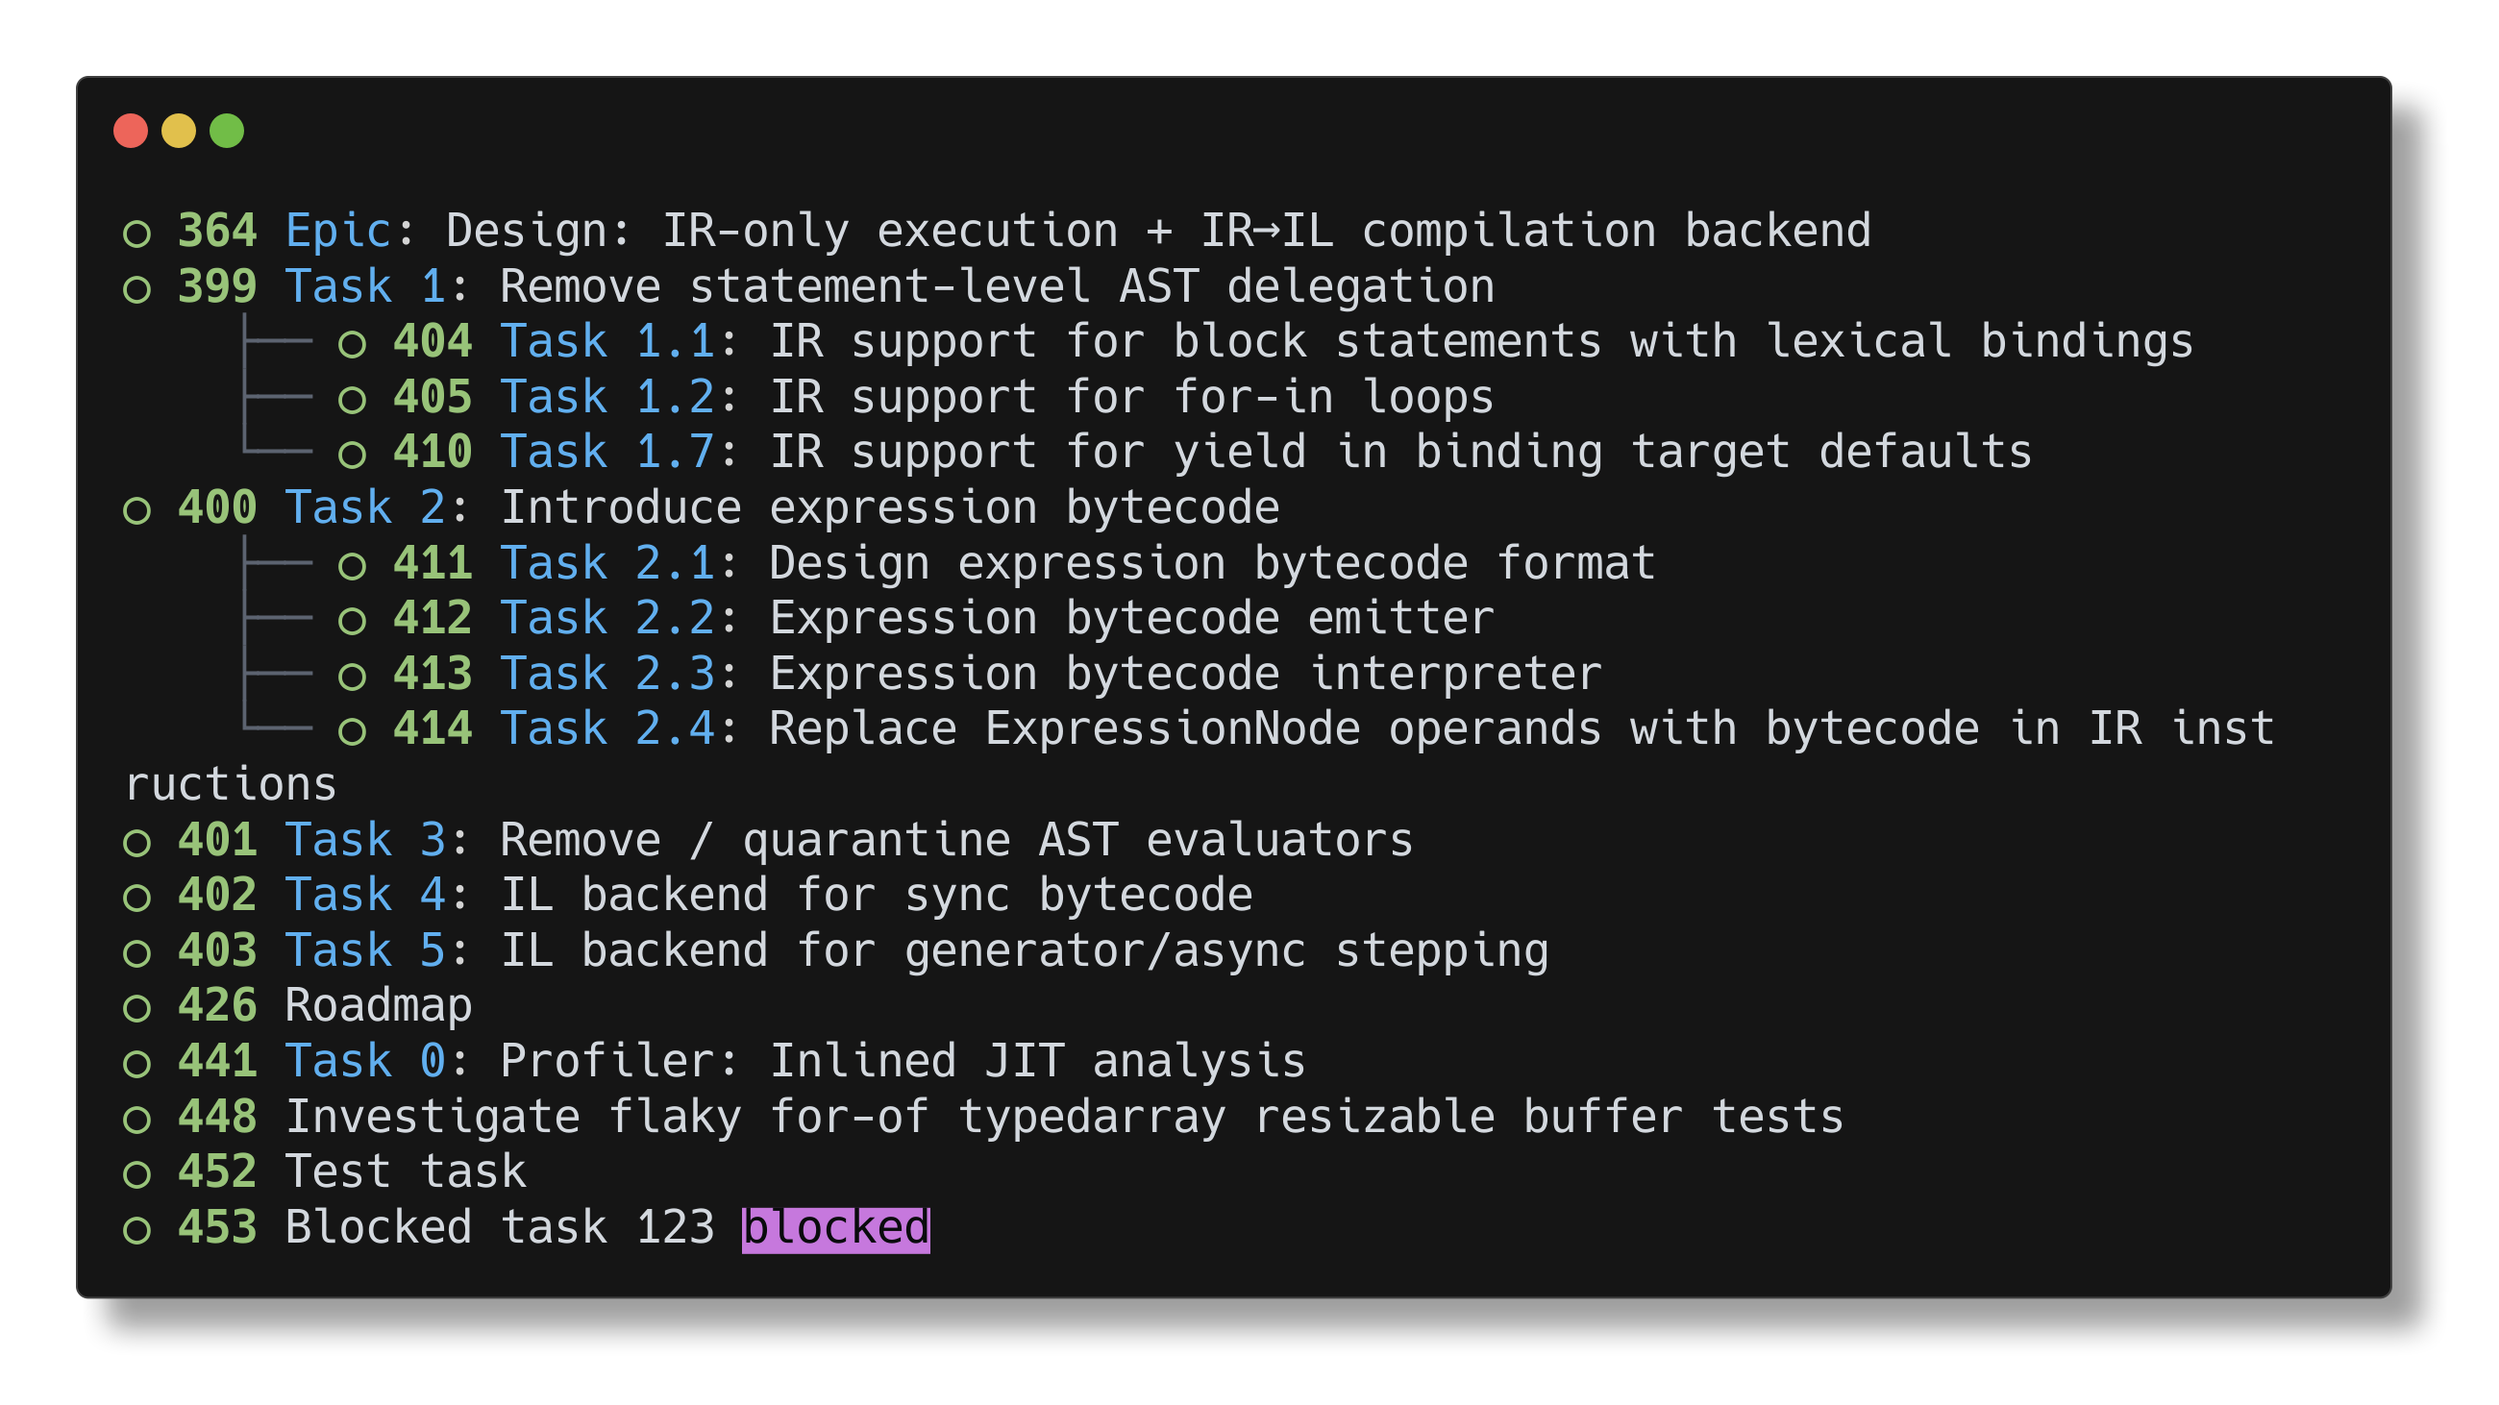
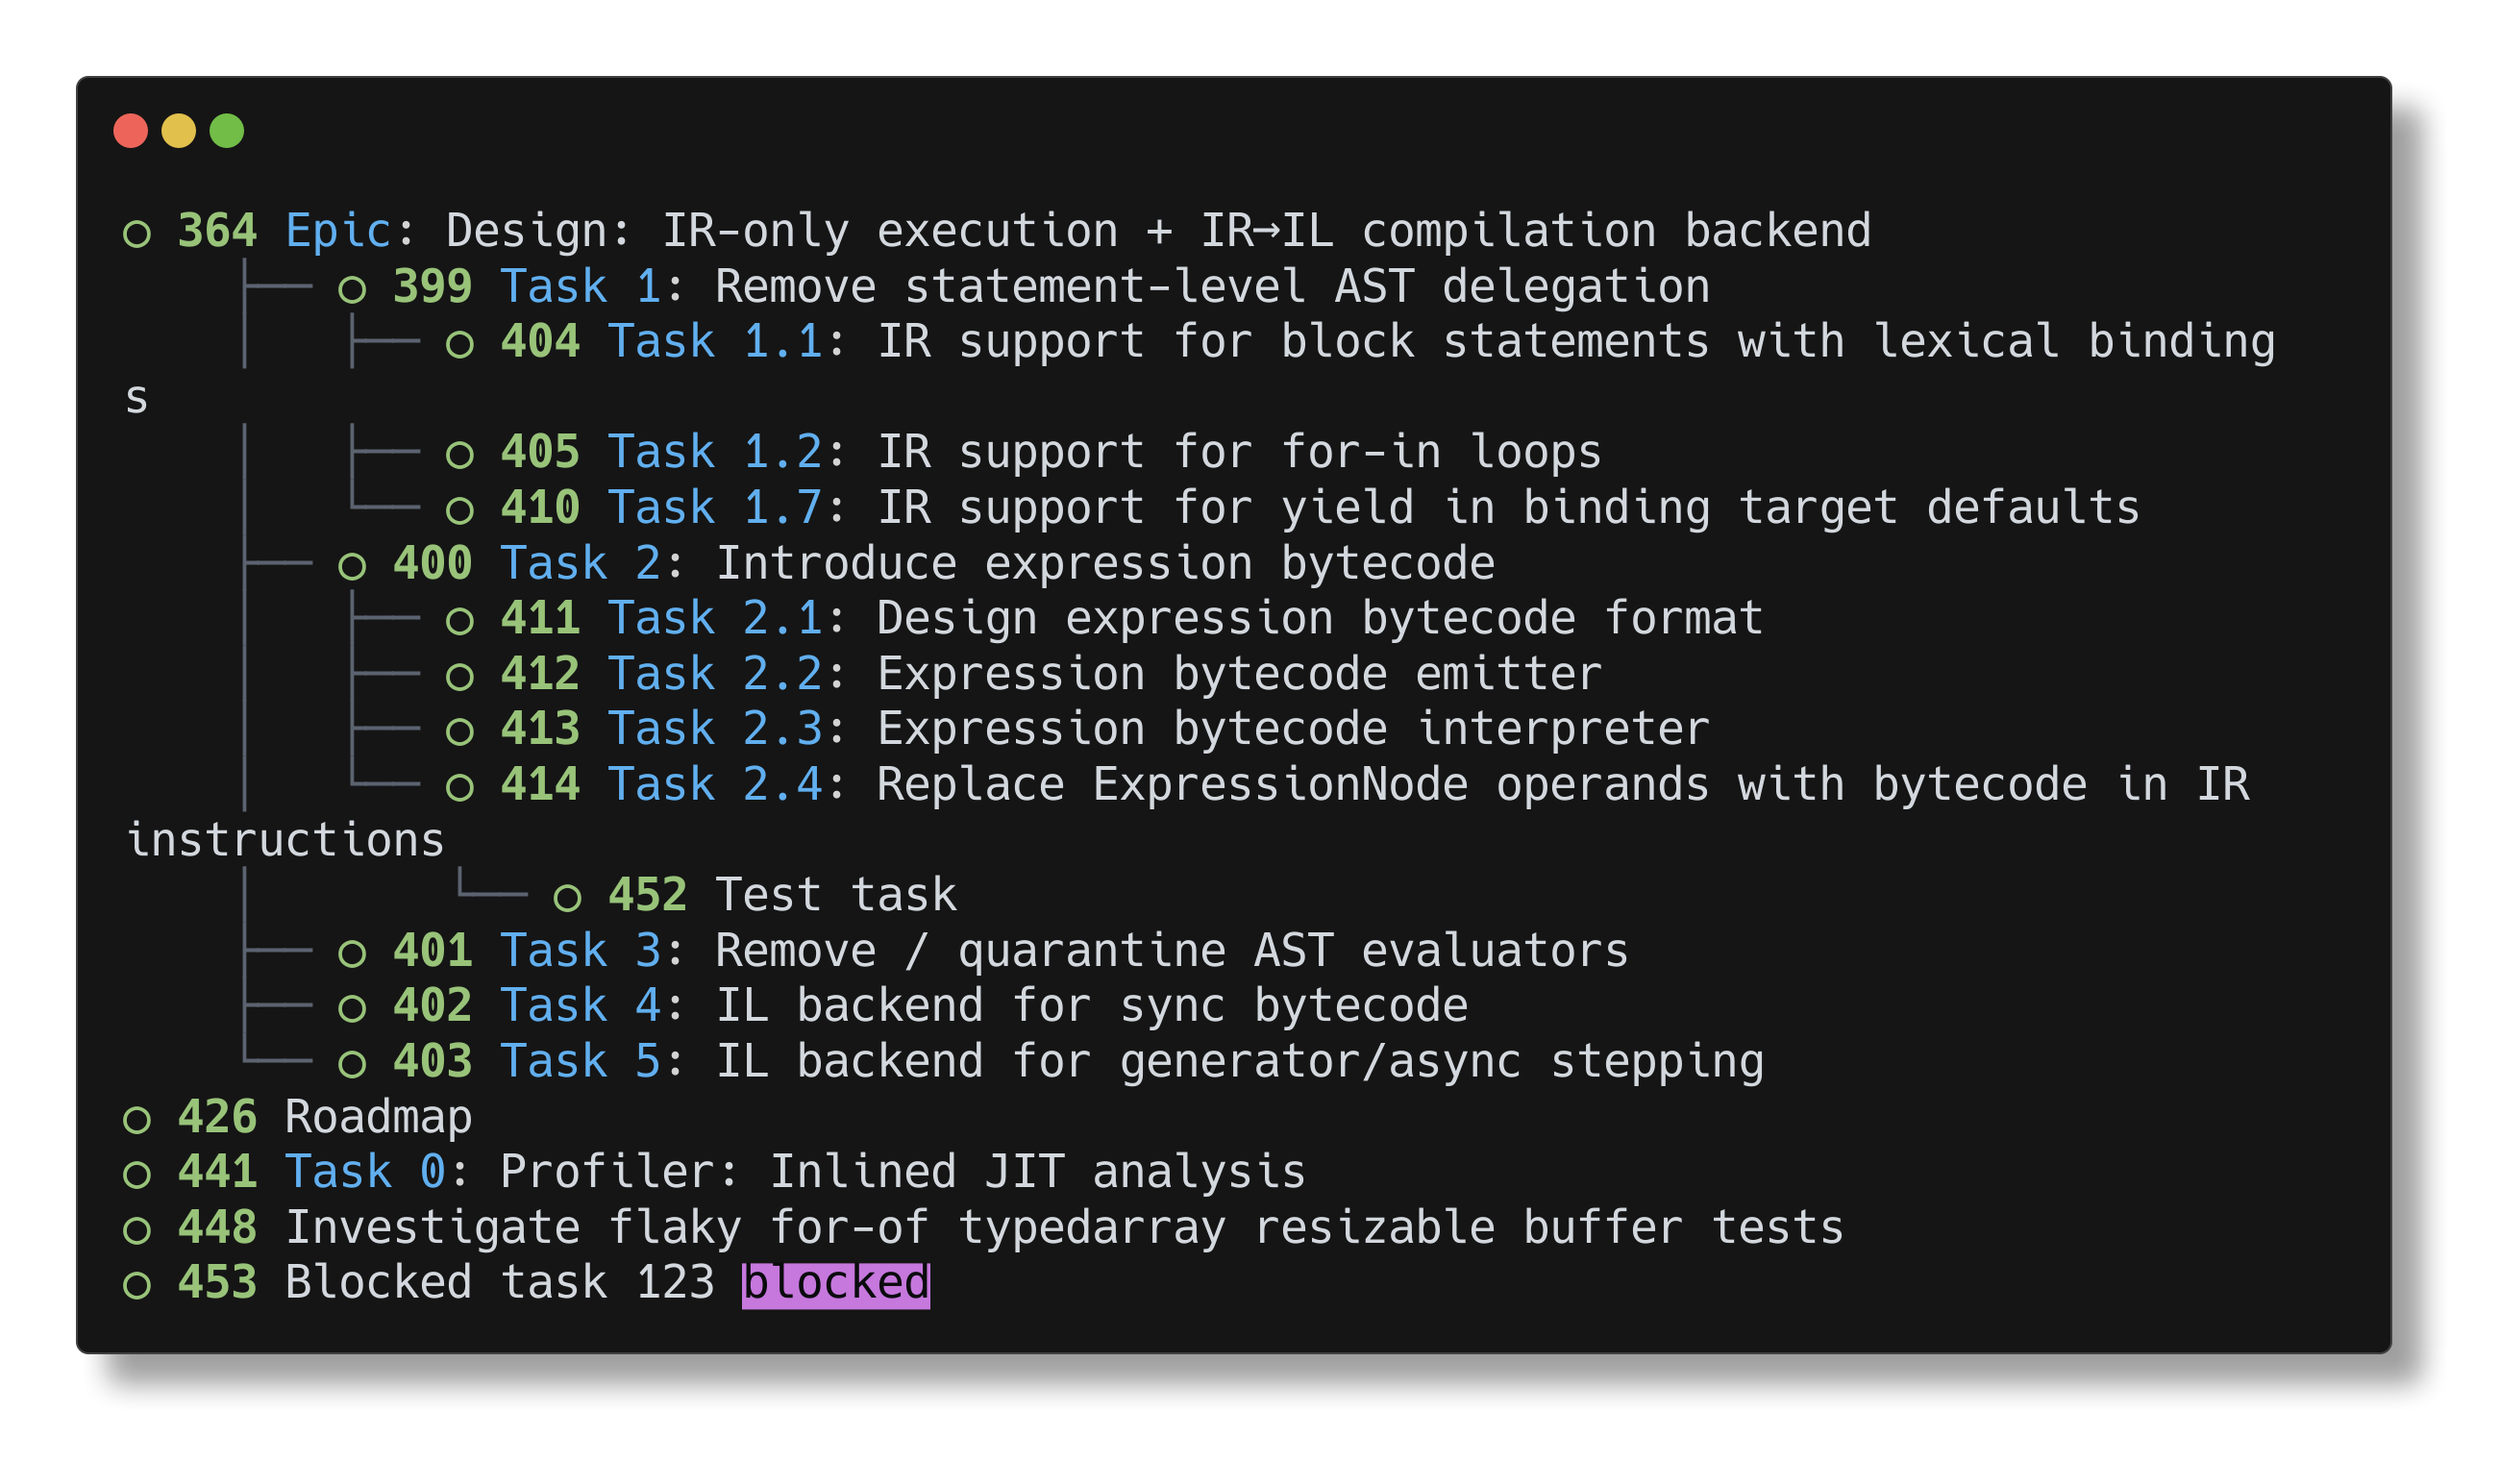
Shorten issue tree connectors

Changed region(s): [[0.0312, 0.0308, 0.9346, 0.9542]]

diff --git a/cmd/ghx/main.go b/cmd/ghx/main.go
@@ -16,13 +16,18 @@ type Label struct {
 	Color string `json:"color"`
 }
 
+type ParentRef struct {
+	Number int `json:"number"`
+}
+
 type Issue struct {
-	Number int     `json:"number"`
-	Title  string  `json:"title"`
-	Body   string  `json:"body"`
-	URL    string  `json:"url"`
-	State  string  `json:"state"`
-	Labels []Label `json:"labels"`
+	Number int        `json:"number"`
+	Title  string     `json:"title"`
+	Body   string     `json:"body"`
+	URL    string     `json:"url"`
+	State  string     `json:"state"`
+	Labels []Label    `json:"labels"`
+	Parent *ParentRef `json:"parent"`
 }
 
 type Node struct {
@@ -32,11 +37,11 @@ type Node struct {
 }
 
 func parseParent(body string) int {
-	re := regexp.MustCompile(`(?i)^Parent:\s*#?(\d+)`)
+	re := regexp.MustCompile(`(?i)^Parent(\s+issue)?:\s*#?(\d+)`)
 	for _, line := range regexp.MustCompile("\r?\n").Split(body, -1) {
 		m := re.FindStringSubmatch(line)
-		if len(m) == 2 {
-			return atoi(m[1])
+		if len(m) == 3 {
+			return atoi(m[2])
 		}
 	}
 	return 0
@@ -150,7 +155,7 @@ func renderSection(header string, nodes []*Node, width int, showLink bool, maxWi
 }
 
 func calcNodeWidth(n *Node, prefix string, idWidth int, isRoot bool) int {
-	connector := "├── "
+	connector := "├─ "
 	if isRoot {
 		connector = ""
 	}
@@ -167,9 +172,9 @@ func calcMaxWidth(nodes []*Node, prefix string, idWidth int, isRoot bool) int {
 		if w > max {
 			max = w
 		}
-		nextPrefix := "    "
+		nextPrefix := "   "
 		if !isRoot {
-			nextPrefix = prefix + "│   "
+			nextPrefix = prefix + "│  "
 		}
 		if childMax := calcMaxWidth(n.Children, nextPrefix, idWidth, false); childMax > max {
 			max = childMax
@@ -236,15 +241,15 @@ func renderSpecialLabels(issue Issue) string {
 }
 
 func renderNode(n *Node, prefix string, isLast bool, width int, showLink bool, maxWidth int, isRoot bool) {
-	connector := "├── "
-	nextPrefix := prefix + "│   "
+	connector := "├─ "
+	nextPrefix := prefix + "│  "
 	if isLast {
-		connector = "└── "
-		nextPrefix = prefix + "    "
+		connector = "└─ "
+		nextPrefix = prefix + "   "
 	}
 	if isRoot {
 		connector = ""
-		nextPrefix = "    "
+		nextPrefix = "   "
 	}
 	idStyle := openIDStyle
 	s := n.Issue.State
@@ -313,24 +318,129 @@ func runIssueTree(args []string) int {
 	} else if hasOpen {
 		state = "open"
 	}
-	cmd := exec.Command("gh", "issue", "list", "--state", state, "--limit", "1000", "--json", "number,title,body,url,state,labels")
-	cmd.Stdin = os.Stdin
-	out, err := cmd.Output()
+	// Get repo info
+	repoCmd := exec.Command("gh", "repo", "view", "--json", "owner,name")
+	repoOut, err := repoCmd.Output()
 	if err != nil {
-		fmt.Fprintf(os.Stderr, "ghx: failed to list issues: %v\n", err)
-		if exitErr, ok := err.(*exec.ExitError); ok {
-			return exitErr.ExitCode()
-		}
-		return 127
-	}
-	var issues []Issue
-	if err := json.Unmarshal(out, &issues); err != nil {
-		fmt.Fprintf(os.Stderr, "ghx: failed to parse issues json: %v\n", err)
+		fmt.Fprintf(os.Stderr, "ghx: failed to get repo info: %v\n", err)
 		return 1
 	}
+	var repoInfo struct {
+		Owner struct{ Login string } `json:"owner"`
+		Name  string                 `json:"name"`
+	}
+	if err := json.Unmarshal(repoOut, &repoInfo); err != nil {
+		fmt.Fprintf(os.Stderr, "ghx: failed to parse repo info: %v\n", err)
+		return 1
+	}
+	owner := repoInfo.Owner.Login
+	repo := repoInfo.Name
+
+	// Build state filters to query
+	var stateFilters []string
+	if state == "all" {
+		stateFilters = []string{"OPEN", "CLOSED"}
+	} else if state == "closed" {
+		stateFilters = []string{"CLOSED"}
+	} else {
+		stateFilters = []string{"OPEN"}
+	}
+
+	// GraphQL query to fetch issues with parent relationship
+	query := `query($owner: String!, $repo: String!, $state: IssueState!, $cursor: String) {
+		repository(owner: $owner, name: $repo) {
+			issues(first: 100, after: $cursor, states: [$state]) {
+				pageInfo { hasNextPage endCursor }
+				nodes {
+					number
+					title
+					body
+					url
+					state
+					labels(first: 10) { nodes { name color } }
+					parent { number }
+				}
+			}
+		}
+	}`
+
+	var allIssues []Issue
+	for _, stateFilter := range stateFilters {
+		var cursor *string
+		for {
+			args := []string{"api", "graphql", "-f", "query=" + query, "-f", "owner=" + owner, "-f", "repo=" + repo, "-f", "state=" + stateFilter}
+			if cursor != nil {
+				args = append(args, "-f", "cursor="+*cursor)
+			}
+			cmd := exec.Command("gh", args...)
+			cmd.Stdin = os.Stdin
+			out, err := cmd.Output()
+			if err != nil {
+				fmt.Fprintf(os.Stderr, "ghx: failed to query issues: %v\n", err)
+				if exitErr, ok := err.(*exec.ExitError); ok {
+					return exitErr.ExitCode()
+				}
+				return 127
+			}
+
+			var resp struct {
+				Data struct {
+					Repository struct {
+						Issues struct {
+							PageInfo struct {
+								HasNextPage bool   `json:"hasNextPage"`
+								EndCursor   string `json:"endCursor"`
+							} `json:"pageInfo"`
+							Nodes []struct {
+								Number int    `json:"number"`
+								Title  string `json:"title"`
+								Body   string `json:"body"`
+								URL    string `json:"url"`
+								State  string `json:"state"`
+								Labels struct {
+									Nodes []Label `json:"nodes"`
+								} `json:"labels"`
+								Parent *ParentRef `json:"parent"`
+							} `json:"nodes"`
+						} `json:"issues"`
+					} `json:"repository"`
+				} `json:"data"`
+			}
+			if err := json.Unmarshal(out, &resp); err != nil {
+				fmt.Fprintf(os.Stderr, "ghx: failed to parse issues json: %v\n", err)
+				return 1
+			}
+
+			for _, n := range resp.Data.Repository.Issues.Nodes {
+				allIssues = append(allIssues, Issue{
+					Number: n.Number,
+					Title:  n.Title,
+					Body:   n.Body,
+					URL:    n.URL,
+					State:  n.State,
+					Labels: n.Labels.Nodes,
+					Parent: n.Parent,
+				})
+			}
+
+			if !resp.Data.Repository.Issues.PageInfo.HasNextPage {
+				break
+			}
+			c := resp.Data.Repository.Issues.PageInfo.EndCursor
+			cursor = &c
+		}
+	}
+
 	nodes := make(map[int]*Node)
-	for _, is := range issues {
-		n := &Node{Issue: is, Parent: parseParent(is.Body)}
+	for _, is := range allIssues {
+		parentNum := 0
+		if is.Parent != nil {
+			parentNum = is.Parent.Number
+		}
+		if parentNum == 0 {
+			parentNum = parseParent(is.Body) // fallback to body parsing
+		}
+		n := &Node{Issue: is, Parent: parentNum}
 		nodes[is.Number] = n
 	}
 	var roots []*Node

diff --git a/README.md b/README.md
@@ -21,7 +21,8 @@ Usage
 - `ghx issue tree --link` (show issue URLs)
 
 Notes
-- Parent relationship parsed from issue body line: `Parent: #<number>`
+- Parent relationship from GitHub's native sub-issue feature
+- Fallback: parses `Parent: #<number>` or `Parent issue: #<number>` from issue body
 
 Updated: 2026-01-07T10:53:41.763Z
 
